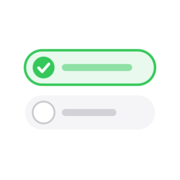
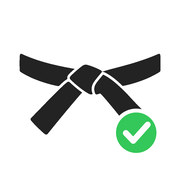
Icono nuevo: cinturón negro (imagen del usuario) con insignia verde de check

Changed region(s): [[0.0833, 0.25, 0.9167, 0.8611]]

diff --git a/sw.js b/sw.js
@@ -1,5 +1,5 @@
 /* Service worker — offline total con actualización en segundo plano */
-const CACHE = 'exam-trainer-v2';
+const CACHE = 'exam-trainer-v3';
 const ASSETS = [
   './',
   'index.html',
